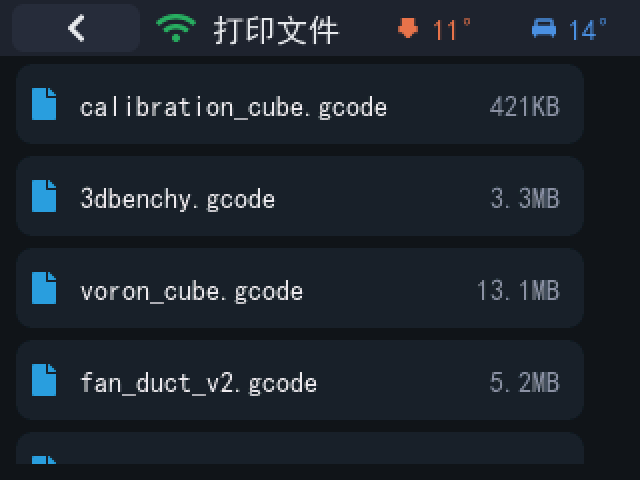
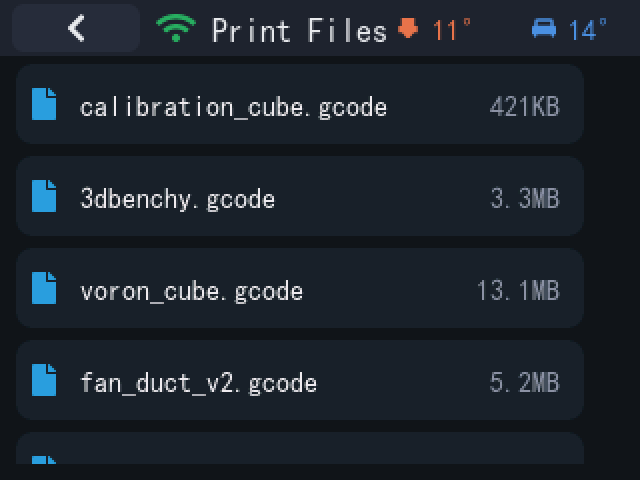
docs: 截图统一为英文界面 640x480，画廊移除开机帧换 files 面板

Changed region(s): [[0.3125, 0.0312, 0.625, 0.0938]]

diff --git a/README_zh.md b/README_zh.md
@@ -4,11 +4,11 @@
 
 基于 ESP32 CYD 系列开发板的 Klipper 远程触屏显示器（对标 KlipperScreen），通过 WiFi 连接 Moonraker。多后端架构：所有界面/业务代码共享，每个后端（ESP32 各板型、desktop SDL2、未来的 Pico/STM32…）地位平等。
 
-| 开机 | 主界面 | 断连 | Klipper 异常 |
+| 主界面 | 断连 | Klipper 异常 | 文件 |
 |---|---|---|---|
-| ![boot](../docs/screenshots/boot.png) | ![idle](../docs/screenshots/main_idle.png) | ![offline](../docs/screenshots/main_offline.png) | ![error](../docs/screenshots/main_error.png) |
+| ![idle](docs/screenshots/main_idle.png) | ![offline](docs/screenshots/main_offline.png) | ![error](docs/screenshots/main_error.png) | ![files](docs/screenshots/files.png) |
 
-> 注：相对路径以本文件位于仓库根目录为准；若图片不显示请直接看 [docs/screenshots/](docs/screenshots/)。
+> 截图均为 desktop 模拟器实拍（英文界面）。更多界面见 [docs/screenshots/](docs/screenshots/)。
 
 - 架构设计：[docs/architecture.md](docs/architecture.md)
 - Klipper/Moonraker API 参考：[docs/klipper-moonraker-api.md](docs/klipper-moonraker-api.md)

diff --git a/README.md b/README.md
@@ -8,9 +8,9 @@ A touchscreen remote display for **Klipper** 3D printers, talking to **Moonraker
 
 The same UI code also compiles as a **desktop simulator** (SDL2, Windows/Linux), so every panel can be developed and screenshot-tested without flashing hardware.
 
-| Boot | Main (idle) | Disconnected | Klipper error |
+| Main (idle) | Disconnected | Klipper error | Files |
 |---|---|---|---|
-| ![boot](docs/screenshots/boot.png) | ![idle](docs/screenshots/main_idle.png) | ![offline](docs/screenshots/main_offline.png) | ![error](docs/screenshots/main_error.png) |
+| ![idle](docs/screenshots/main_idle.png) | ![offline](docs/screenshots/main_offline.png) | ![error](docs/screenshots/main_error.png) | ![files](docs/screenshots/files.png) |
 
 | Move | Temperature | Printing | Settings |
 |---|---|---|---|
